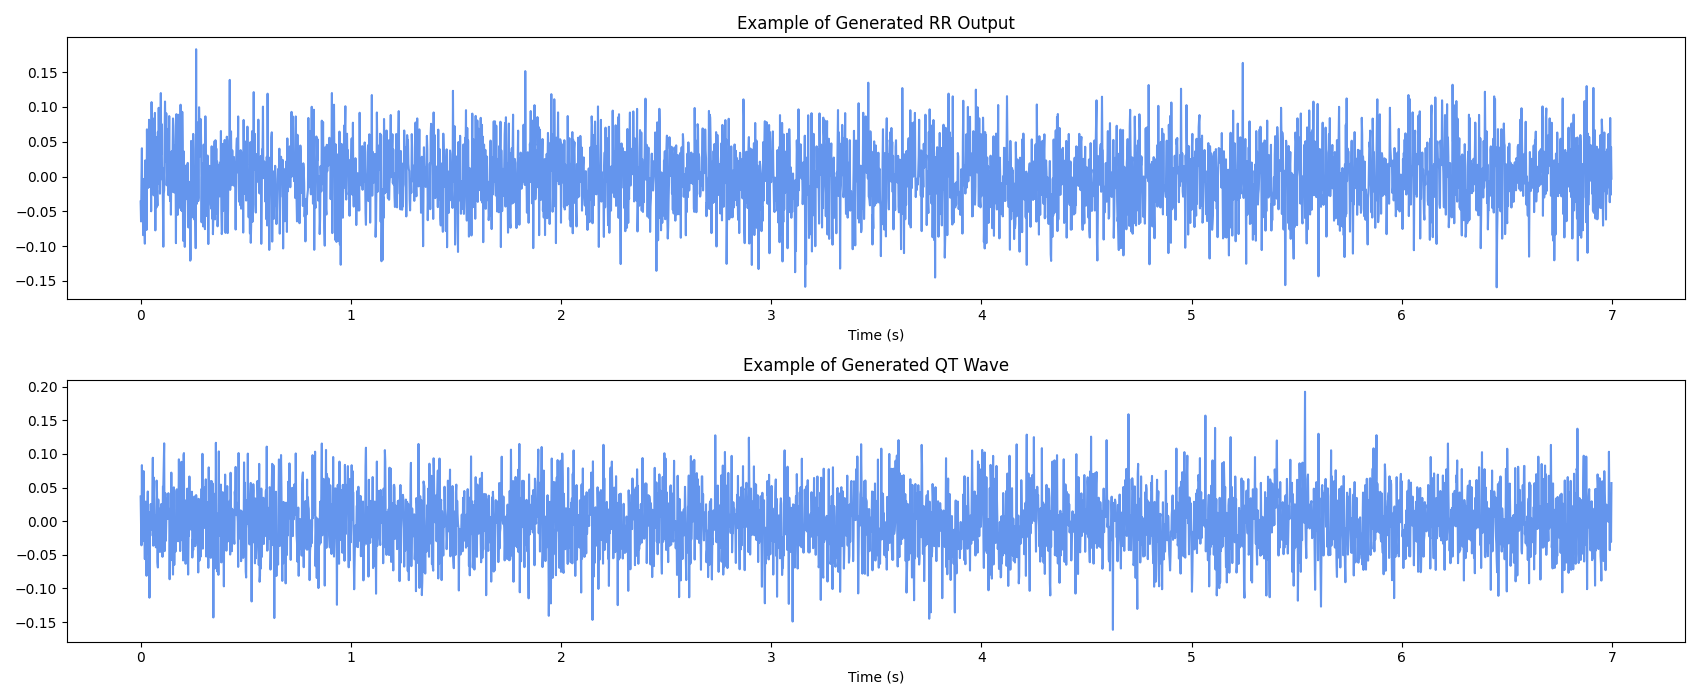
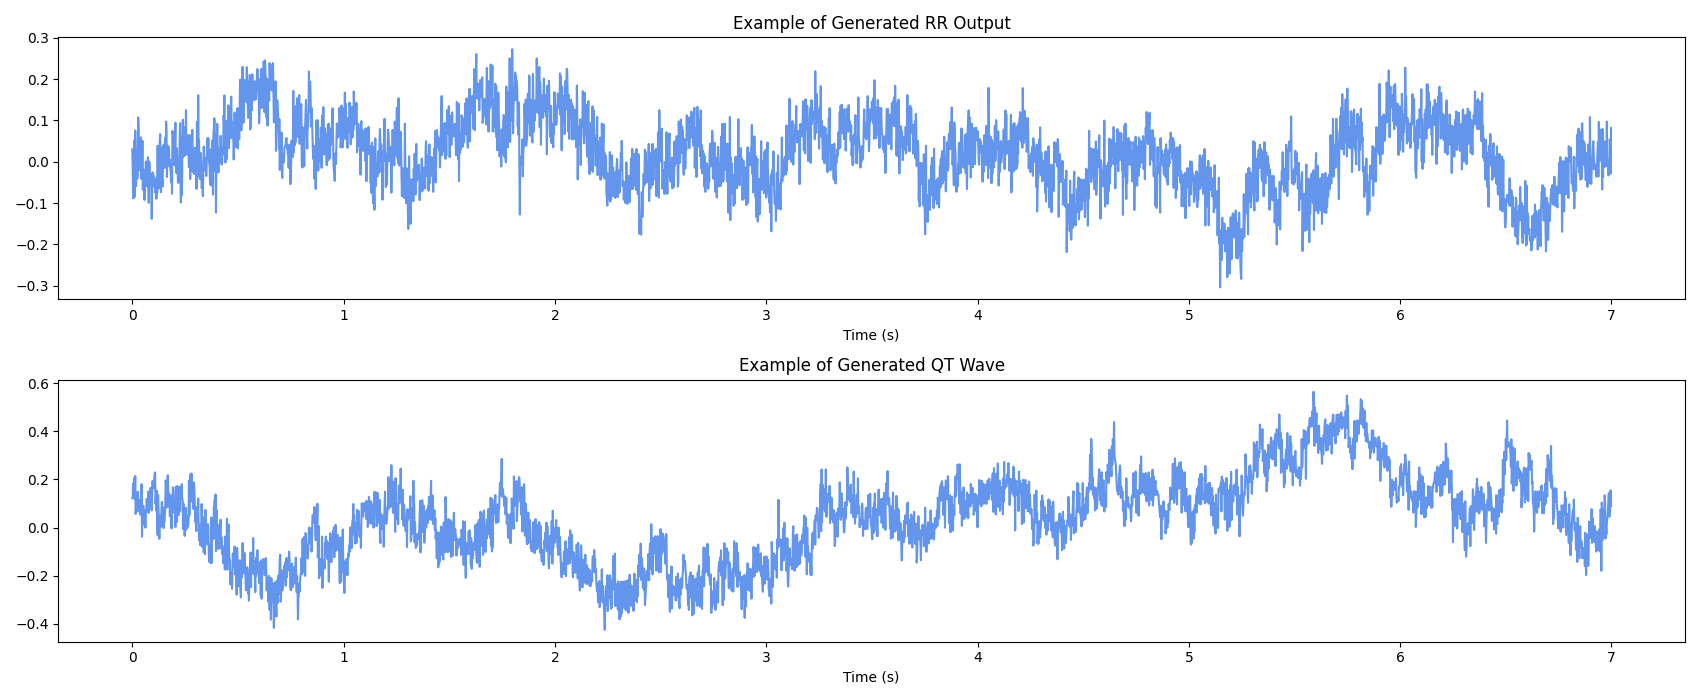
fixed QT bug - finalized QT plotting

diff --git a/process_heartrate_data.py b/process_heartrate_data.py
@@ -2,25 +2,23 @@
 Mira Welner
 June 2025
 
-This script loads Dr. Dey's heartrate data and proccesses it to be 1/10th of a second, with the y value being the ms in the r-r
-distance at that individual decasecond.
+This script loads Dr. Cong's PPG and ECG data, removes outliers, and interpolates the PPG data
+which is 125 hz to be 500hz like the ECG data.
+
+As of now, this algorithm does NOT remove noise because my previous notch filter method
+cannot easily be automated. So, my hope is that the model will remove the noise.
 """
 
 import pandas as pd
-from glob import glob
-import matplotlib.pyplot as plt
-import sys
 import numpy as np
 from scipy.interpolate import interp1d
-from random import randrange
+from glob import glob
 
-frac_sec = 2 #the x values are half of a second
-rr_df = pd.DataFrame()
-qt_df = pd.DataFrame()
+frac_sec = 10 #the x values are 100th of a second
 
 def process_rr(rr_distance_ms, snip_len = 3500):
     bpm = 60000/rr_distance_ms
-    scaled_heartrate = bpm/75-1
+    scaled_heartrate = bpm/75 -1
     num_samples = len(scaled_heartrate)//snip_len
     scaled_heartrate_trimmed = scaled_heartrate[:num_samples*snip_len]
     heartrate_snips = scaled_heartrate_trimmed.reshape(num_samples, snip_len)
@@ -28,69 +26,73 @@ def process_rr(rr_distance_ms, snip_len = 3500):
     return snip_df
 
 def process_qt(qt_distance_ms, snip_len = 3500):
-    num_samples = len(qt_distance_ms)//snip_len
-    scaled_heartrate_trimmed = qt_distance_ms[:num_samples*snip_len]
+    scaled_qt = qt_distance_ms/350-1
+    num_samples = len(scaled_qt)//snip_len
+    scaled_heartrate_trimmed = scaled_qt[:num_samples*snip_len]
     heartrate_snips = scaled_heartrate_trimmed.reshape(num_samples, snip_len)
     snip_df = pd.DataFrame(heartrate_snips)
     return snip_df
 
-
-def proccess_datafile(path):
-    """
-    This only works on the 18-58-25 files, and the
-    07-15-37 files, or files of similar format
-    """
+def proccess_file(path):
     file = pd.read_csv(path)
     rr_distance_ms = file.iloc[:, 3]
-    qt_distance_ms = np.array([0.0 if val == '  ' else val for val in file.iloc[:, 4]], dtype=float)
+    qt_distance_ms = pd.Series(pd.to_numeric(file.iloc[:, 4], errors='coerce')).fillna(0)
     timestamps = file.iloc[:,1]
-
-    x = np.arange(min(timestamps), max(timestamps)-1, 1/frac_sec)
-
+    qt_times_s = [sum(rr_distance_ms[:i])/1000 for i in range(len(rr_distance_ms))]
     f_interp_rr = interp1d(timestamps, rr_distance_ms, kind='linear')
-    f_interp_qt = interp1d(timestamps, qt_distance_ms, kind='linear')
-    fig = plt.figure()
-    plt.plot(f_interp_rr(x))
-    plt.show()
-    return process_rr(f_interp_rr(x)), process_qt(f_interp_qt(x))
+    x_rr = np.arange(min(timestamps), max(timestamps)-1, 1/frac_sec)
+    interpolated_rr = f_interp_rr(x_rr)
 
+    f_interp_qt = interp1d(qt_times_s, qt_distance_ms, kind='linear')
+    x_qt = np.arange(min(qt_times_s), max(qt_times_s)-1, 1/frac_sec)
+    interpolated_qt = f_interp_qt(x_qt)
+    return process_rr(interpolated_rr), process_qt(interpolated_qt)
+
+
+
+rr = pd.DataFrame()
+qt = pd.DataFrame()
 
 for i in range(1,5):
-    rr_data, qt_data = proccess_datafile(f"heartrate_data/18-58-25_8_hours_part{i}_v2_wholecaseRRiQTi.csv")
-    rr_df = pd.concat([rr_df, rr_data])
-    qt_df = pd.concat([qt_df, qt_data])
-
+    path = f"heartrate_data/18-58-25_8_hours_part{i}_v2_wholecaseRRiQTi.csv"
+    new_rr, new_qt = proccess_file(path)
+    rr = pd.concat([rr, new_rr])
+    qt = pd.concat([qt, new_qt])
 
 for i in range(1,5):
-    rr_data, qt_data = proccess_datafile(f"heartrate_data/07-15-37_8_hours_part{i}_v2_wholecaseRRiQTi.csv")
-    rr_df = pd.concat([rr_df, rr_data])
-    qt_df = pd.concat([qt_df, qt_data])
+    path = f"heartrate_data/07-15-37_8_hours_part{i}_v2_wholecaseRRiQTi.csv"
+    new_rr, new_qt = proccess_file(path)
+    rr = pd.concat([rr, new_rr])
+    qt = pd.concat([qt, new_qt])
 
 
-# the everyRRQTinputIntoEntropy files are proccessed differently because they are formatted
-# differently for some reason
-"""
-everyRRQT_time_data = []
-everyRRQT_rr_data = []
-everyRRQT_qt_data = []
+#the below files are very short so they need to be concatinated before being processed
+
+short_files_rr = []
+short_files_qt = []
+short_files_timestamps = []
 for i in range(1,28):
     path = glob(f"heartrate_data/11-03-38_8_hours_part2_v2_everyRRQTinputIntoEntropy_Rel{i}_Abs*")[0]
     file = pd.read_csv(path)
-    x = file.iloc[:,0]
-    if len(everyRRQT_time_data):
-        x+=everyRRQT_time_data[-1]
+    timestamps = file.iloc[:,0]
+    if len(short_files_timestamps):
+        timestamps+=short_files_timestamps[-1]
+    rr_distance_s = np.asarray(file.iloc[:,1])
+    qt_distance_s = np.asarray(file.iloc[:,2])
+    short_files_rr.extend(rr_distance_s*1000)
+    short_files_qt.extend(qt_distance_s*1000)
+    short_files_timestamps.extend(timestamps)
 
-    everyRRQT_rr_data.extend(np.asarray(file.iloc[:,1])*1000)
-    everyRRQT_qt_data.extend(np.asarray(file.iloc[:,2])*1000)
-    everyRRQT_time_data.extend(x)
+qt_times_s = [sum(short_files_rr[:i])/1000 for i in range(len(short_files_rr))]
+f_interp_rr = interp1d(short_files_timestamps, short_files_rr, kind='linear')
+x_rr = np.arange(min(short_files_timestamps), max(short_files_timestamps)-1, 1/frac_sec)
+interpolated_rr = f_interp_rr(x_rr)
 
-f_interp_rr = interp1d(everyRRQT_time_data, everyRRQT_rr_data, kind='linear')
-f_interp_qt = interp1d(everyRRQT_time_data, everyRRQT_qt_data, kind='linear')
-x_ms = np.arange(min(everyRRQT_time_data), max(everyRRQT_time_data)-1, 1/frac_sec)
-rr_df = pd.concat([rr_df, process_rr(f_interp_rr(x_ms))])
-qt_df = pd.concat([qt_df, process_rr(f_interp_qt(x_ms))])
-"""
+f_interp_qt = interp1d(qt_times_s, short_files_qt, kind='linear')
+x_qt = np.arange(min(qt_times_s), max(qt_times_s)-1, 1/frac_sec)
+interpolated_qt = f_interp_qt(x_qt)
+rr = pd.concat([rr, process_rr(interpolated_rr)])
+qt = pd.concat([qt, process_qt(interpolated_qt)])
 
-
-rr_df.to_csv('processed_data/rr_processed.csv')
-qt_df.to_csv('processed_data/qt_processed.csv')
+rr.to_csv('processed_data/rr_processed.csv')
+qt.to_csv('processed_data/qt_processed.csv')

diff --git a/train_gan_heartrate.py b/train_gan_heartrate.py
@@ -14,8 +14,6 @@ import matplotlib.pyplot as plt
 from wgan import train_wgan, Generator
 import pandas as pd
 
-
-
 def make_train_test_dataloaders(rr, qt):
     def generate_dataloader(data):
         torch_data = torch.from_numpy(data.astype(np.float32))
@@ -51,9 +49,7 @@ def plot_mean_and_diff(rr_test_squeeze, rr_gen_output, qt_test_squeeze, qt_gen_o
 
     mean_rr_gen = np.mean(rr_gen_output, axis=0)
     mean_rr_real = np.mean(rr_test_squeeze, axis=0)
-    mean_diff = np.mean(mean_rr_real - mean_rr_gen, axis=0)
-    lower_bound = mean_rr_real - np.minimum(mean_diff, np.zeros(len(mean_rr_real)))
-    upper_bound = mean_rr_real - np.maximum(mean_diff, np.zeros(len(mean_rr_real)))
+
 
     #axes[0].fill_between(range(rr_gen_output.shape[1]), lower_bound, upper_bound, alpha=0.5, label="Mean Difference Between Real and Gen")
     axes[0].plot(mean_rr_real, label="Mean Real Data", color='red')
@@ -73,9 +69,6 @@ def plot_mean_and_diff(rr_test_squeeze, rr_gen_output, qt_test_squeeze, qt_gen_o
     #plot triangle wave data on lower plot
     mean_qt_real = np.mean(qt_test_squeeze, axis=0)
     mean_qt_gen = np.mean(qt_gen_output, axis=0)
-    mean_diff = np.mean(mean_qt_real - mean_qt_gen, axis=0)
-    lower_bound = mean_qt_real + np.minimum(mean_diff, np.zeros(len(mean_qt_real)))
-    upper_bound = mean_qt_real + np.maximum(mean_diff, np.zeros(len(mean_qt_real)))
 
     #axes[1].fill_between(range(qt_gen_output.shape[1]), lower_bound, upper_bound, alpha=0.5, label="Mean Difference Between Real and Gen")
     axes[1].plot(mean_qt_real, label="Mean Real Data", color='red')
